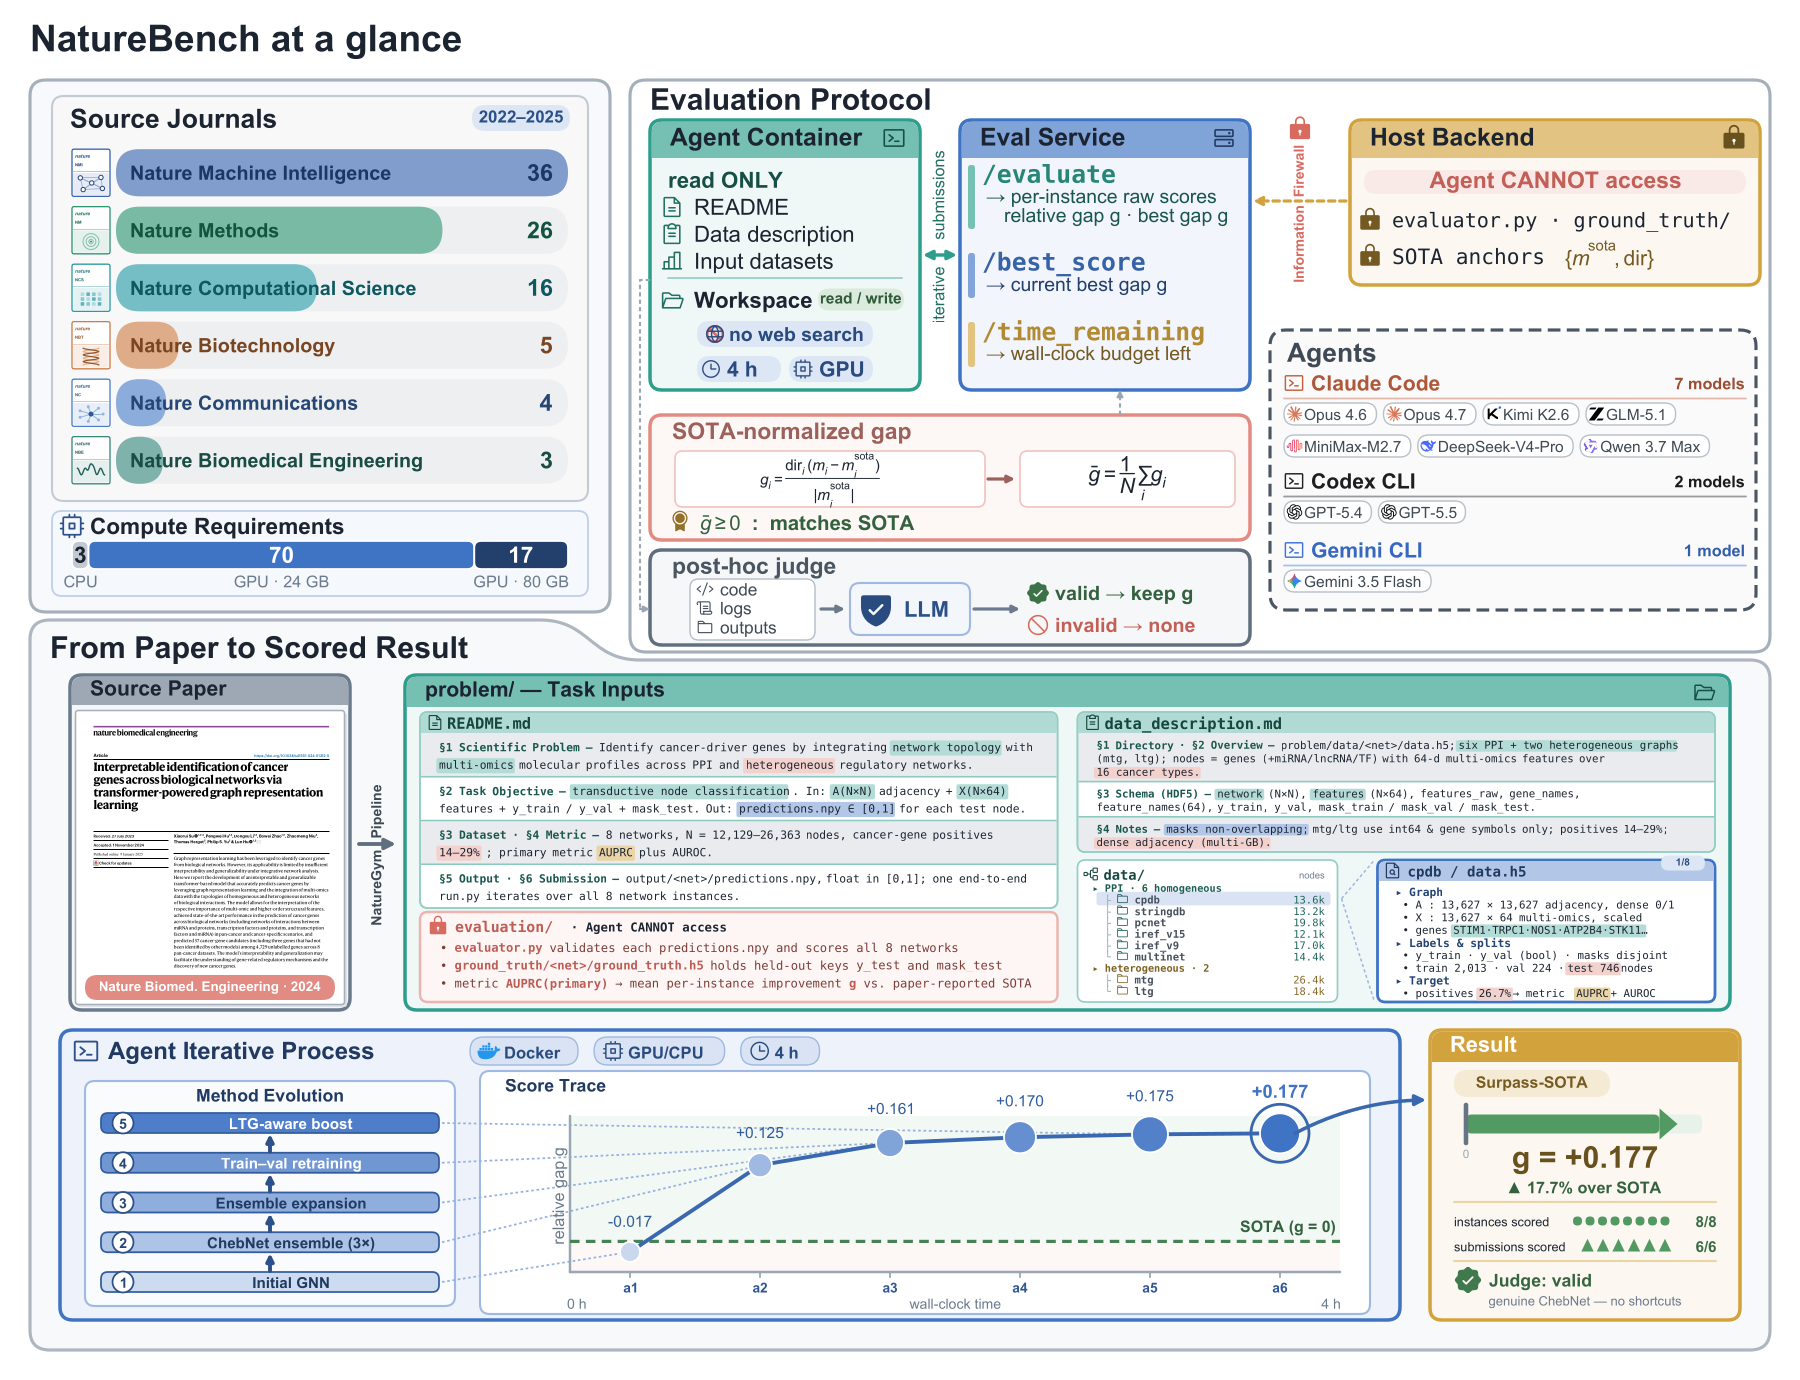
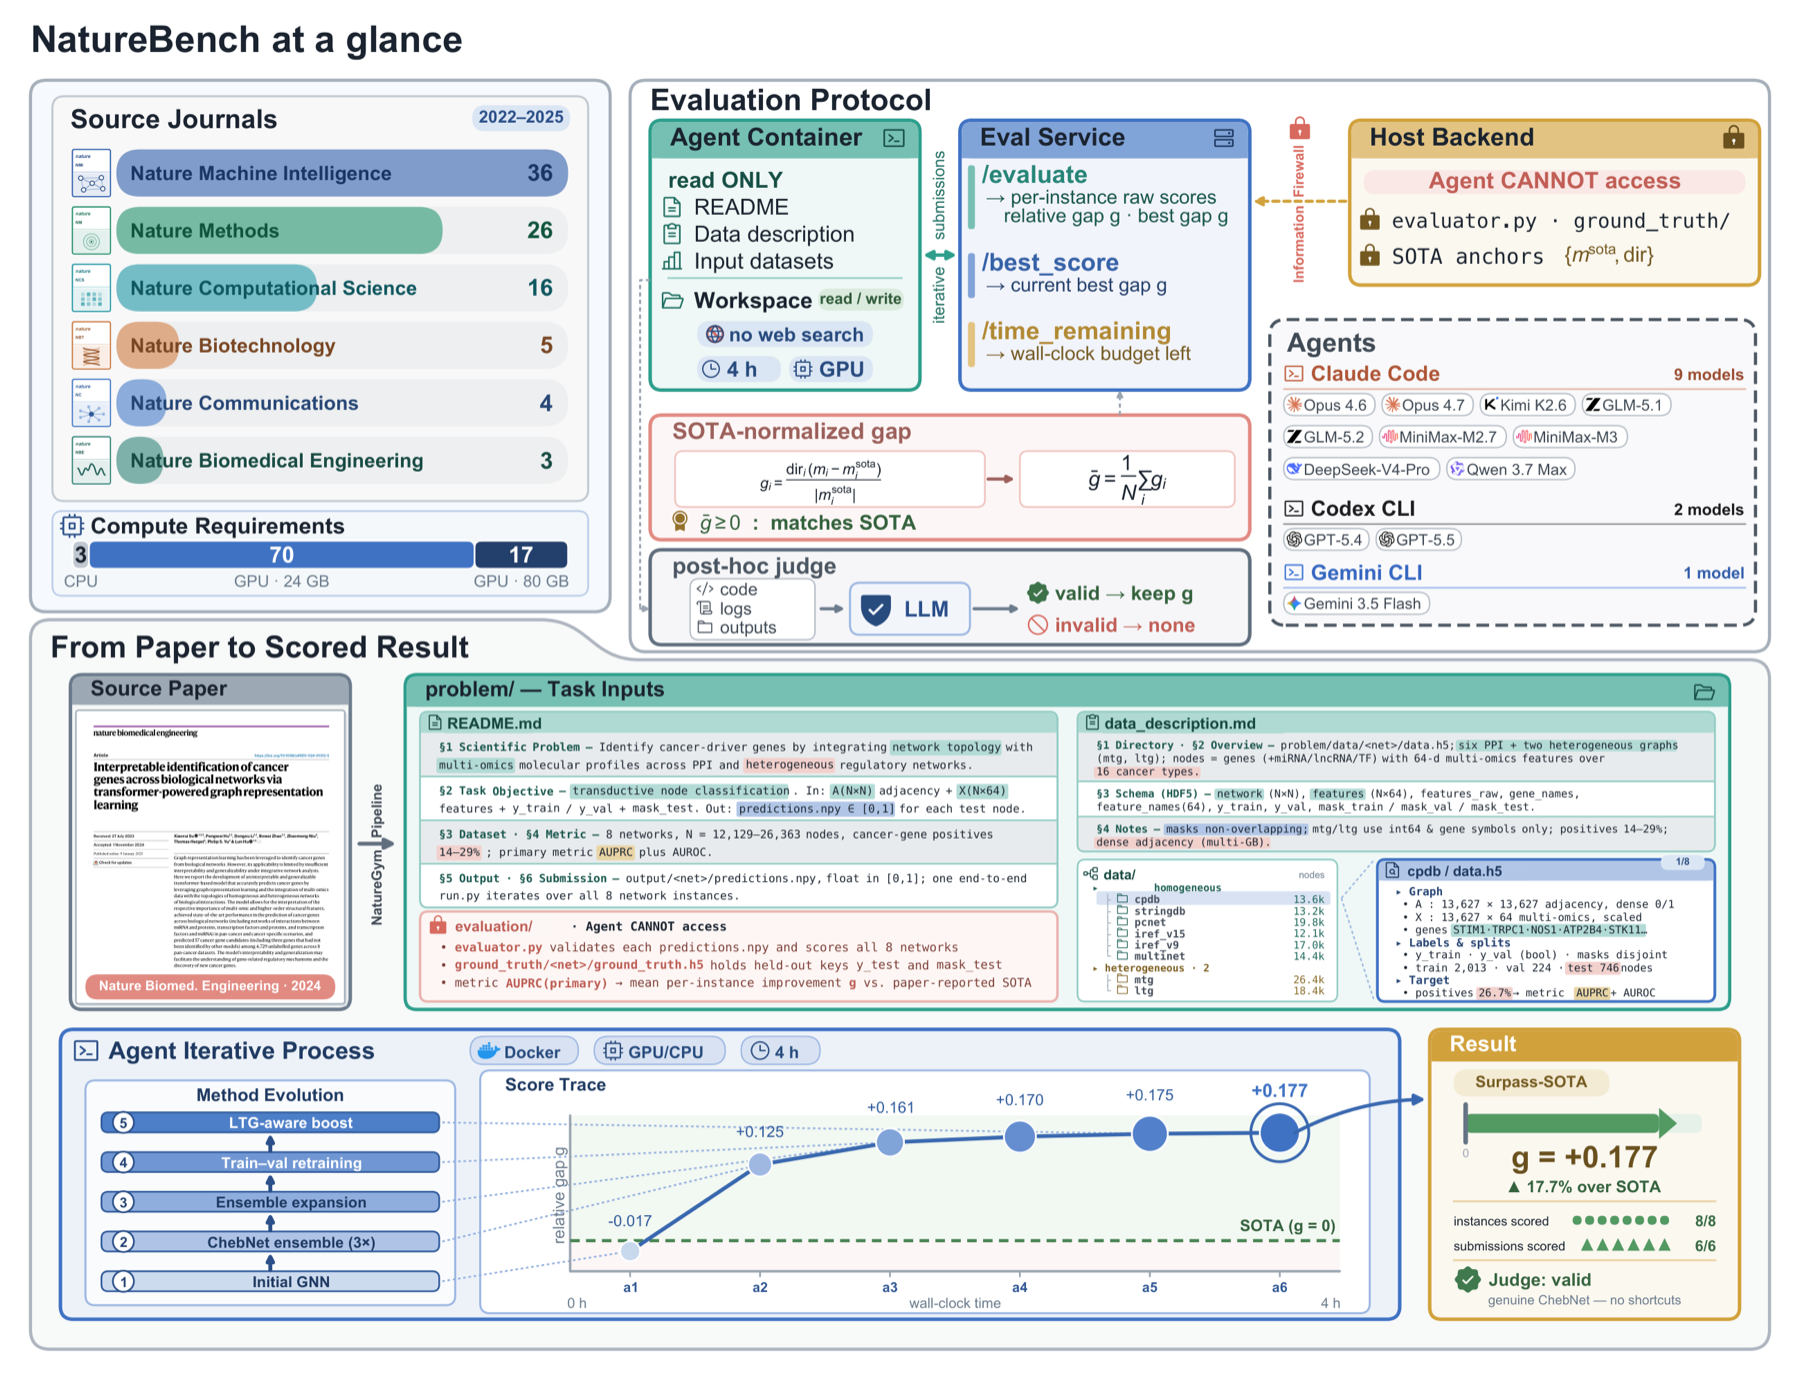
docs(results): update results after judge reassessment

diff --git a/README.md b/README.md
@@ -12,7 +12,9 @@
 
 ## 📰News
 
-- **🏆 [2026-07-07] We update the [results](https://frontisai.github.io/NatureBench/) with 12 harness-model configurations, adding GLM-5.2 and MiniMax-M3.**
+- **⚖ [2026-07-30] We update the validity judge and use GPT-5.5 to reassess all runs; the [results](https://frontisai.github.io/NatureBench/) have been comprehensively updated.**
+- **🏆 [2026-07-07] We update the [results](https://frontisai.github.io/NatureBench/) with 12 coding-agent configurations, adding GLM-5.2 and MiniMax-M3.**
+- **📦 [2026-07-03] We release the full [NatureBench agent traces](https://huggingface.co/datasets/FrontisAI/NatureBench-traces) on Hugging Face.**
 - **🚀 [2026-06-24] We introduce [NatureBench](https://arxiv.org/abs/2606.24530), a benchmark for scientific ML coding agents on Nature-family tasks.**
 
 ## 📖Overview
@@ -27,10 +29,10 @@ NatureBench is built on **NatureGym**, an automated pipeline that converts a pub
 
 ## 📊Results
 
-Across twelve harness-model configurations, the strongest reaches a 17.8% Surpass-SOTA rate, and success remains uneven across the six scientific domains NatureBench spans.
+Across twelve coding-agent configurations, the strongest reaches a 15.6% Surpass-SOTA rate, and success remains uneven across the six scientific domains NatureBench spans.
 
 <p align="center">
-  <img src="assets/main_results.png" width="840" alt="NatureBench scientific domains and Surpass-SOTA rates across harness-model configurations">
+  <img src="assets/main_results.png" width="840" alt="NatureBench scientific domains and Surpass-SOTA rates across coding-agent configurations">
 </p>
 
 ## 🔧Installation
